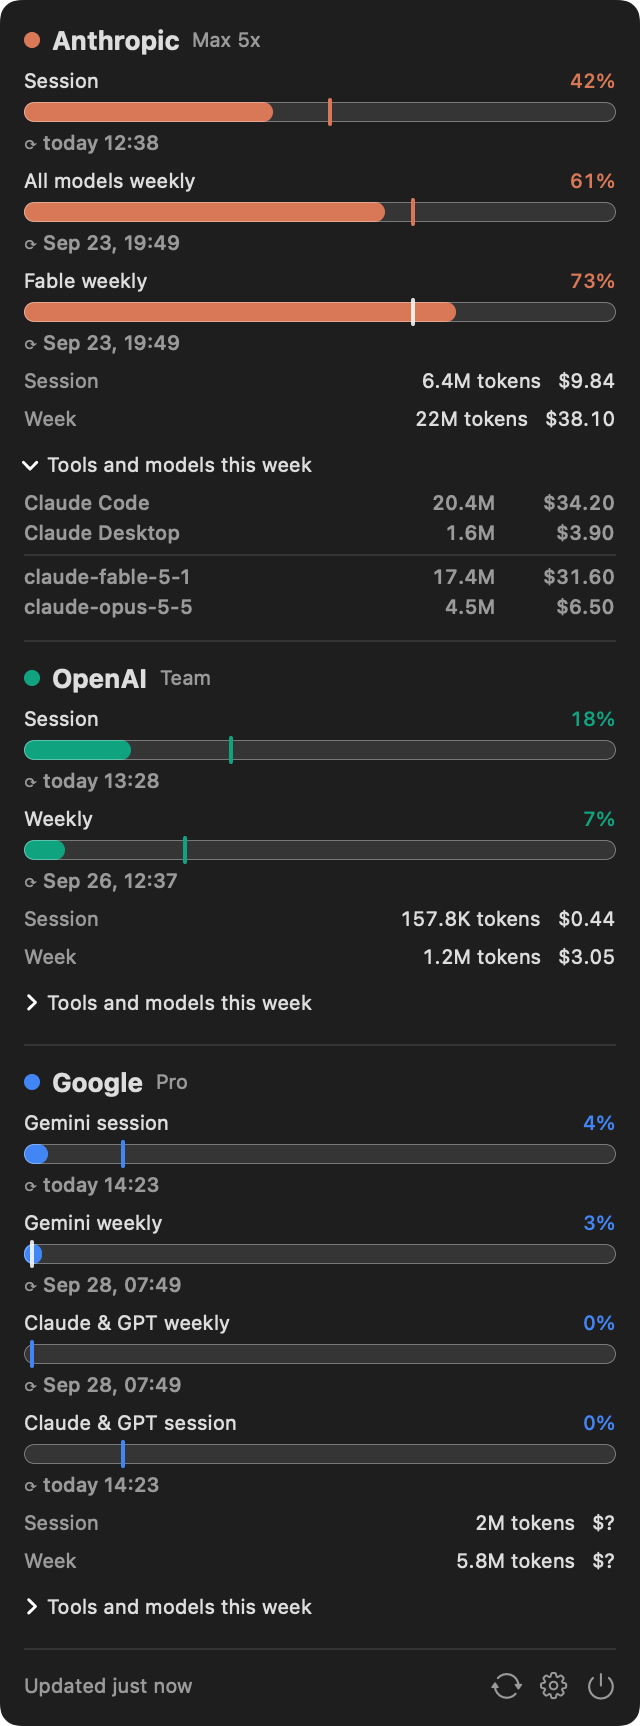
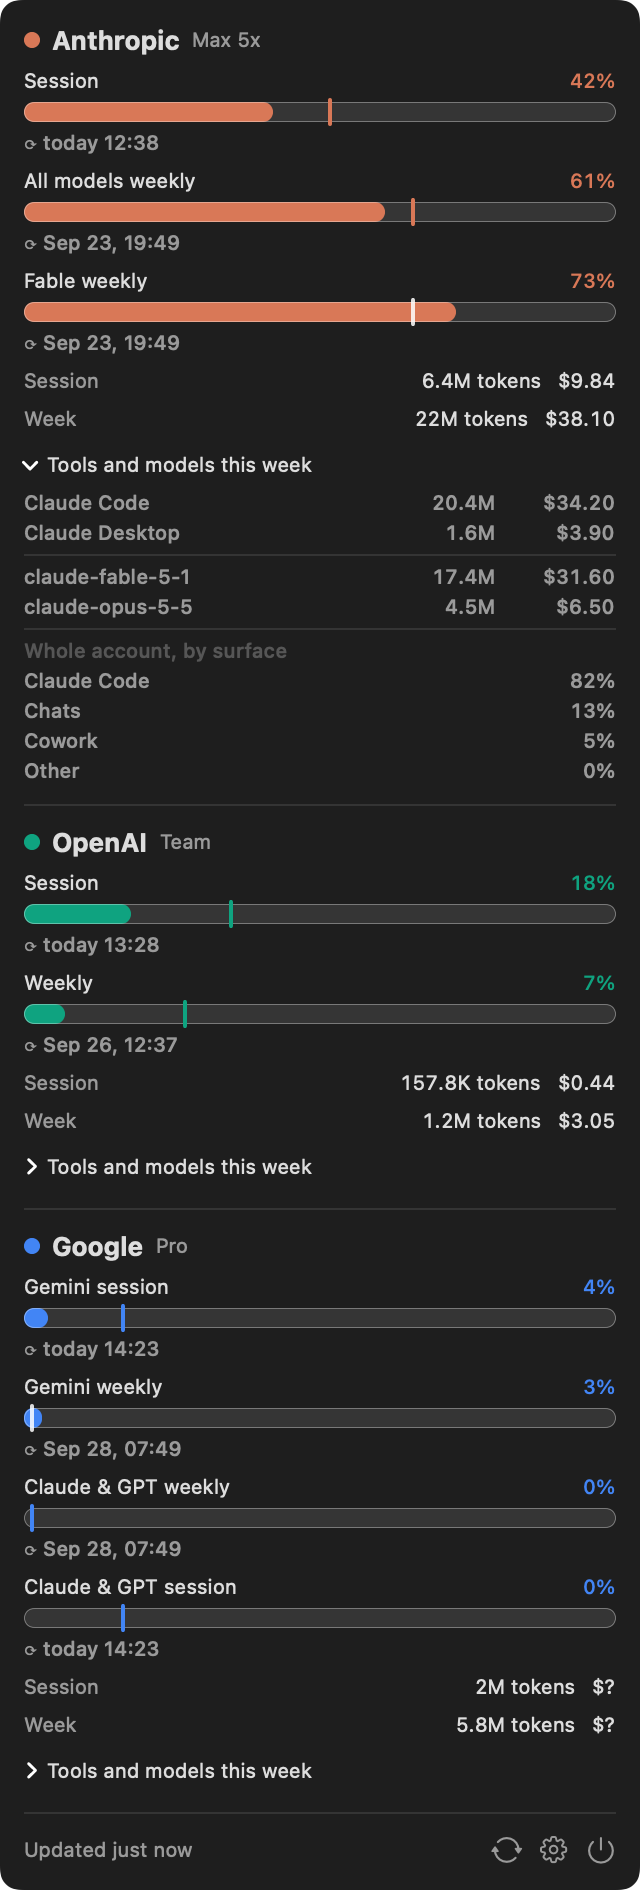
Show Claude's weekly usage by surface for the whole account
The tool and model rows are summed from this Mac's logs, so they miss other
devices and claude.ai chat. usage-reporter 0.3.0 writes Anthropic's own split
of the weekly window by surface (Claude Code, Chats, Cowork, Other) as
weeklyBreakdown. ClaudeUsageFile reads it, the engine carries it as
ProviderSnapshot.surfaces, and the menu lists it in the disclosure under the
local rows. Unknown surfaces are kept.

What the percent measures is unconfirmed: it fits a share of the week's usage
summing to 100, but only one non-zero row has been observed. The heading is
neutral and the reading is in the tooltip.

Assisted-by: Claude <noreply@anthropic.com>

diff --git a/TokenometerCore/Sources/TokenometerCore/Aggregation/Snapshot.swift b/TokenometerCore/Sources/TokenometerCore/Aggregation/Snapshot.swift
@@ -11,6 +11,21 @@ public struct StaleInfo: Codable, Sendable, Equatable {
     }
 }
 
+/// One surface's part of the provider's weekly usage, account-wide, as the provider reports it
+/// (for Claude: Claude Code, Chats, Cowork, Other). Unlike the tool and model rows, which are
+/// summed from this Mac's logs, it covers every device and claude.ai chat too.
+public struct SurfaceShare: Codable, Sendable, Equatable {
+    public var key: String
+    public var label: String
+    public var percent: Double
+
+    public init(key: String, label: String, percent: Double) {
+        self.key = key
+        self.label = label
+        self.percent = percent
+    }
+}
+
 /// Everything the menu bar, menu, and widget show for one provider.
 public struct ProviderSnapshot: Codable, Sendable, Equatable, Identifiable {
     public var provider: Provider
@@ -25,10 +40,12 @@ public struct ProviderSnapshot: Codable, Sendable, Equatable, Identifiable {
     public var models: [ModelSpend]
     public var windowsStale: StaleInfo?
     public var spendStale: StaleInfo?
+    /// Optional so a snapshot written before this field existed still decodes.
+    public var surfaces: [SurfaceShare]?
 
     public var id: Provider { provider }
 
-    public init(provider: Provider, accountKind: AccountKind, planName: String? = nil, session: UsageWindow? = nil, weekly: UsageWindow? = nil, scoped: [UsageWindow] = [], sessionSpend: Spend = .zero, weeklySpend: Spend = .zero, tools: [ToolSpend] = [], models: [ModelSpend] = [], windowsStale: StaleInfo? = nil, spendStale: StaleInfo? = nil) {
+    public init(provider: Provider, accountKind: AccountKind, planName: String? = nil, session: UsageWindow? = nil, weekly: UsageWindow? = nil, scoped: [UsageWindow] = [], sessionSpend: Spend = .zero, weeklySpend: Spend = .zero, tools: [ToolSpend] = [], models: [ModelSpend] = [], windowsStale: StaleInfo? = nil, spendStale: StaleInfo? = nil, surfaces: [SurfaceShare]? = nil) {
         self.provider = provider
         self.accountKind = accountKind
         self.planName = planName
@@ -41,6 +58,7 @@ public struct ProviderSnapshot: Codable, Sendable, Equatable, Identifiable {
         self.models = models
         self.windowsStale = windowsStale
         self.spendStale = spendStale
+        self.surfaces = surfaces
     }
 }
 

diff --git a/TokenometerCore/Sources/TokenometerUI/ProviderSectionView.swift b/TokenometerCore/Sources/TokenometerUI/ProviderSectionView.swift
@@ -64,6 +64,21 @@ public struct ProviderSectionView: View {
                                 DetailRow(name: model.model, spend: model.weekly)
                             }
                         }
+                        if let surfaces = snapshot.surfaces, !surfaces.isEmpty {
+                            // The rows above are this Mac's logs. These are the provider's own figures
+                            // for the whole account, so chat and other devices are in them.
+                            Divider().padding(.vertical, 2)
+                            Text("Whole account, by surface").font(.caption2).foregroundStyle(.tertiary)
+                                .help("As the provider reports it for this week: each surface's share of the week's usage, on every device.")
+                            ForEach(surfaces, id: \.key) { surface in
+                                HStack {
+                                    Text(surface.label).font(.caption2).lineLimit(1)
+                                    Spacer()
+                                    Text(Format.percent(surface.percent)).font(.caption2.monospacedDigit())
+                                }
+                                .foregroundStyle(.secondary)
+                            }
+                        }
                     }
                     .padding(.top, 2)
                 } label: {
@@ -224,6 +239,12 @@ public enum SampleData {
             models: [
                 ModelSpend(model: "claude-fable-5-1", weekly: spend(300_000, 150_000, 17_000_000, cost: 31.60, calls: 210)),
                 ModelSpend(model: "claude-opus-5-5", weekly: spend(110_000, 40_000, 4_400_000, cost: 6.50, calls: 102)),
+            ],
+            surfaces: [
+                SurfaceShare(key: "claude_code", label: "Claude Code", percent: 82),
+                SurfaceShare(key: "chat", label: "Chats", percent: 13),
+                SurfaceShare(key: "cowork", label: "Cowork", percent: 5),
+                SurfaceShare(key: "other", label: "Other", percent: 0),
             ]
         )
         let openAI = ProviderSnapshot(

diff --git a/TokenometerCore/Sources/TokenometerCore/Engine/UsageEngine.swift b/TokenometerCore/Sources/TokenometerCore/Engine/UsageEngine.swift
@@ -75,6 +75,7 @@ public enum UsageEngine {
             var session: UsageWindow?
             var weekly: UsageWindow?
             var scoped: [UsageWindow] = []
+            var surfaces: [SurfaceShare]?
             var windowsStale: StaleInfo?
             if provider == .openAI, let limits = inputs.codexRateLimits {
                 session = limits.session
@@ -86,6 +87,7 @@ public enum UsageEngine {
                     session = fetched.session
                     weekly = fetched.weekly
                     scoped = fetched.scoped
+                    surfaces = fetched.surfaces.isEmpty ? nil : fetched.surfaces
                     if let plan = fetched.planName { account.planName = plan }
                     // A source that reports from a file can fall behind the logs: say so rather than
                     // show an old number as current.
@@ -97,11 +99,13 @@ public enum UsageEngine {
                     session = old?.session
                     weekly = old?.weekly
                     scoped = old?.scoped ?? []
+                    surfaces = old?.surfaces
                     windowsStale = StaleInfo(since: old?.windowsStale?.since ?? inputs.now, reason: describe(error))
                 case nil:
                     session = old?.session
                     weekly = old?.weekly
                     scoped = old?.scoped ?? []
+                    surfaces = old?.surfaces
                     windowsStale = old?.windowsStale
                 }
             }
@@ -110,6 +114,7 @@ public enum UsageEngine {
                 session = nil
                 weekly = nil
                 scoped = []
+                surfaces = nil
             }
 
             // A window whose reset time has passed rolled over; the provider will report the new one
@@ -147,7 +152,8 @@ public enum UsageEngine {
                 tools: usage.tools,
                 models: usage.models,
                 windowsStale: windowsStale,
-                spendStale: spendStale
+                spendStale: spendStale,
+                surfaces: surfaces
             ))
         }
 

diff --git a/TokenometerCore/Tests/TokenometerCoreTests/UsageClientTests.swift b/TokenometerCore/Tests/TokenometerCoreTests/UsageClientTests.swift
@@ -33,6 +33,18 @@ private struct StubTransport: HTTPTransport {
         #expect(windows.fetchedAt == Date(timeIntervalSince1970: 1_791_003_600))
     }
 
+    @Test func readsTheWeeklyBreakdownBySurface() async throws {
+        let json = #"{"version":1,"at":"2026-10-04T15:45:30.428Z","windows":[{"kind":"weekly","percent":43}],"credits":{"enabled":false,"used":0},"weeklyBreakdown":{"windowStartedAt":"2026-09-27T23:00:00.751Z","rows":[{"key":"claude_code","label":"Claude Code","percent":100},{"key":"chat","label":"Chats","percent":0},{"key":"voice","percent":3},{"label":"No key","percent":9}],"at":"2026-10-04T15:45:04.521Z"}}"#
+        let windows = try await report(json).fetchWindows()
+        #expect(windows.weekly?.usedPercent == 43)
+        // An unknown surface is kept and falls back to its key for a label; a row with no key is dropped.
+        #expect(windows.surfaces == [SurfaceShare(key: "claude_code", label: "Claude Code", percent: 100),
+                                     SurfaceShare(key: "chat", label: "Chats", percent: 0),
+                                     SurfaceShare(key: "voice", label: "voice", percent: 3)])
+        let without = try await report(#"{"version":1,"at":"2026-10-04T15:45:30.428Z","windows":[]}"#).fetchWindows()
+        #expect(without.surfaces.isEmpty)
+    }
+
     @Test func newerFormatSaysSoInsteadOfGuessing() async throws {
         let client = try report(#"{"version":2,"at":"2026-10-03T05:00:00.000Z","windows":[]}"#)
         await #expect(throws: UsageClientError.noReport("usage-reporter wrote format 2; this Tokenometer reads format 1")) { try await client.fetchWindows() }

diff --git a/TokenometerCore/Sources/TokenometerCore/Network/ClaudeUsageFile.swift b/TokenometerCore/Sources/TokenometerCore/Network/ClaudeUsageFile.swift
@@ -4,8 +4,10 @@ import Foundation
 /// Claude Code makes the usage call itself with its own login; Tokenometer reads no credential and
 /// contacts no Anthropic host.
 ///
-/// Format version 1: `{version: 1, at, windows: [{kind: session | weekly, label?, percent, resetsAt?, at}], raw?}`.
-/// A weekly window with a `label` is scoped to that model family. Knowledge of Anthropic's response
+/// Format version 1: `{version: 1, at, windows: [{kind: session | weekly, label?, percent, resetsAt?, at}],
+/// weeklyBreakdown?: {rows: [{key, label?, percent}]}, raw?}`. A weekly window with a `label` is scoped to
+/// that model family; `weeklyBreakdown` is the weekly usage split by surface, account-wide. Other fields
+/// the mod writes (`credits`, `cloudSessionCredits`) are not read. Knowledge of Anthropic's response
 /// shape lives in the mod, not here.
 public struct ClaudeUsageFile: UsageWindowSource {
     public let provider: Provider = .anthropic
@@ -48,6 +50,11 @@ public struct ClaudeUsageFile: UsageWindowSource {
             default:
                 continue
             }
+        }
+        // Every row is kept, unknown surfaces included: Anthropic can add one without a new release here.
+        for row in root.dict("weeklyBreakdown")?["rows"] as? [[String: Any]] ?? [] {
+            guard let key = row.string("key"), let percent = (row["percent"] as? NSNumber)?.doubleValue else { continue }
+            windows.surfaces.append(SurfaceShare(key: key, label: row.string("label") ?? key, percent: percent))
         }
         return windows
     }

diff --git a/TokenometerCore/Tests/TokenometerCoreTests/EngineTests.swift b/TokenometerCore/Tests/TokenometerCoreTests/EngineTests.swift
@@ -48,7 +48,8 @@ import Testing
 
     @Test func failedWindowFetchKeepsPreviousValueAsStale() {
         struct Boom: Error {}
-        let fetched = ProviderWindows(session: UsageWindow(kind: .session, usedPercent: 50), weekly: UsageWindow(kind: .weekly, usedPercent: 20), planName: "max", fetchedAt: now)
+        var fetched = ProviderWindows(session: UsageWindow(kind: .session, usedPercent: 50), weekly: UsageWindow(kind: .weekly, usedPercent: 20), planName: "max", fetchedAt: now)
+        fetched.surfaces = [SurfaceShare(key: "chat", label: "Chats", percent: 12)]
         let first = UsageEngine.snapshot(
             from: RefreshInputs(records: [], presentTools: [.claudeCode], windows: [.anthropic: .success(fetched)], accounts: [.anthropic: AccountInfo(kind: .plan)], now: now),
             settings: EngineSettings(), previous: nil)
@@ -61,6 +62,7 @@ import Testing
             settings: EngineSettings(), previous: first)
         let anthropic = second.provider(.anthropic)!
         #expect(anthropic.session?.usedPercent == 50)
+        #expect(anthropic.surfaces == fetched.surfaces)
         #expect(anthropic.windowsStale?.since == later)
         #expect(anthropic.windowsStale?.reason.contains("Boom") == true)
     }

diff --git a/TokenometerCore/Sources/tokenometerctl/main.swift b/TokenometerCore/Sources/tokenometerctl/main.swift
@@ -52,6 +52,7 @@ if json {
         print("  spend session \(p.sessionSpend.tokens.total) tok $\(String(format: "%.2f", p.sessionSpend.costUSD)) | week \(p.weeklySpend.tokens.total) tok $\(String(format: "%.2f", p.weeklySpend.costUSD))\(p.weeklySpend.hasUnknownCost ? " (+unpriced)" : "")")
         for t in p.tools { print("  \(t.tool.displayName): week \(t.weekly.tokens.total) tok, \(t.weekly.calls) calls") }
         for m in p.models.prefix(6) { print("    \(m.model): \(m.weekly.tokens.total) tok") }
+        if let surfaces = p.surfaces { print("  by surface, whole account: " + surfaces.map { "\($0.label) \(Int($0.percent.rounded()))%" }.joined(separator: ", ")) }
         if let s = p.windowsStale { print("  windows stale: \(s.reason)") }
         if let s = p.spendStale { print("  spend stale: \(s.reason)") }
     }

diff --git a/TokenometerCore/Sources/TokenometerCore/Engine/UsageWindowSource.swift b/TokenometerCore/Sources/TokenometerCore/Engine/UsageWindowSource.swift
@@ -8,6 +8,8 @@ public struct ProviderWindows: Sendable, Equatable {
     public var scoped: [UsageWindow]
     public var planName: String?
     public var fetchedAt: Date
+    /// The weekly window split by surface, when the provider reports one.
+    public var surfaces: [SurfaceShare] = []
 
     public init(session: UsageWindow? = nil, weekly: UsageWindow? = nil, scoped: [UsageWindow] = [], planName: String? = nil, fetchedAt: Date) {
         self.session = session

diff --git a/CLAUDE.md b/CLAUDE.md
@@ -51,7 +51,7 @@ Toolchain: Xcode 27, Swift 6.4, xcodegen 2.46, pwsh. Signing is manual with the 
 Anthropic:
 - Claude Code: `~/.claude/projects/**/*.jsonl`, including `subagents/` dirs (the script skips them; the app must not). Only `assistant` entries carry `message.usage` and `message.model`. Dedupe by `message.id`, keep the last entry. `cost-state` entries carry per-session `totalCostUSD` and `modelUsage`.
 - Claude Desktop (Cowork and Code): `~/Library/Application Support/Claude/local-agent-mode-sessions/**/.claude/projects/**/*.jsonl`, same format. Sibling `audit.jsonl` is SDK stream-json with `rate_limit_event` (window type, status, reset time, no percent).
-- Usage percent (ADR-0004): from `~/.claude/usage-reporter/usage.json`, written by the `usage-reporter` Claude Code mod, which lives in its own repo (`~/REPOS/usage-reporter`, GitHub `tksunw/usage-reporter`) and is installed per Mac by cloning it into `~/.claude/skills/usage-reporter`. Format 1: `{version: 1, at, windows: [{kind: session | weekly, label?, percent, resetsAt?, at}], raw?}`; a weekly window with a `label` is model-scoped ("Fable"). The mod has Claude Code call `https://api.anthropic.com/api/oauth/usage` through `$.session.authorize()` and `$.http.fetch(url, { auth })` (the credential never reaches the mod), at most once per 5 min across sessions, 10 min after a 429, and between calls merges the status line's session and weekly percent into the last report. All knowledge of Anthropic's response shape is in the mod. `ClaudeUsageFile` reads the file on every refresh (`readsLocalFile`) and rejects an unknown `version`. Plan vs metered: `oauthAccount` in `~/.claude.json` means plan (`organizationType`, `organizationRateLimitTier` give "Max 5x"); `organizationType` containing `enterprise` means metered. Never read the `Claude Code-credentials` keychain item.
+- Usage percent (ADR-0004): from `~/.claude/usage-reporter/usage.json`, written by the `usage-reporter` Claude Code mod, which lives in its own repo (`~/REPOS/usage-reporter`, GitHub `tksunw/usage-reporter`) and is installed per Mac by cloning it into `~/.claude/skills/usage-reporter`. Format 1: `{version: 1, at, windows: [{kind: session | weekly, label?, percent, resetsAt?, at}], weeklyBreakdown?: {rows: [{key, label?, percent}]}, credits?, cloudSessionCredits?, raw?}`; a weekly window with a `label` is model-scoped ("Fable"). `weeklyBreakdown` (usage-reporter 0.3.0) is the weekly usage by surface for the whole account; it becomes `ProviderSnapshot.surfaces` and is drawn in the menu's disclosure under the local tool and model rows. Its `percent` appears to be a share of the week's usage summing to 100, but only one non-zero row has ever been observed, so that is unconfirmed. `credits` and `cloudSessionCredits` are not read. The mod has Claude Code call `https://api.anthropic.com/api/oauth/usage` through `$.session.authorize()` and `$.http.fetch(url, { auth })` (the credential never reaches the mod), at most once per 5 min across sessions, 10 min after a 429, and between calls merges the status line's session and weekly percent into the last report. All knowledge of Anthropic's response shape is in the mod. `ClaudeUsageFile` reads the file on every refresh (`readsLocalFile`) and rejects an unknown `version`. Plan vs metered: `oauthAccount` in `~/.claude.json` means plan (`organizationType`, `organizationRateLimitTier` give "Max 5x"); `organizationType` containing `enterprise` means metered. Never read the `Claude Code-credentials` keychain item.
 
 OpenAI:
 - Codex: `~/.codex/sessions/**/*.jsonl`. `event_msg` / `token_count` events carry cumulative `total_token_usage` (take the last per file; `input_tokens` includes `cached_input_tokens`) and `rate_limits.primary` / `.secondary` with `used_percent`, `window_minutes`, `resets_at`, plus `plan_type`. Newest event across files is current. The only provider whose percent is on disk.

diff --git a/README.md b/README.md
@@ -16,7 +16,7 @@ For each provider:
 - **Scoped** bars where the provider has them: Claude's per-model weekly cap ("Fable weekly"), Antigravity's second model group ("Claude and GPT").
 - A **pace tick** on every bar marking how far through the window the clock is. The fill stays in the provider's color while usage is at or behind the tick. Ahead of it, amber from 75% and red from 90%.
 - **Spend**: tokens and dollars for the session and the week. On a subscription the dollar figure is what the same tokens would have cost at API rates, labeled as such; the subscription is the real bill.
-- **Tools and models** this week, under a disclosure.
+- **Tools and models** this week, under a disclosure. Those rows are summed from this Mac's logs. For Claude the disclosure also shows the week split by surface (Claude Code, Chats, Cowork, Other) for the whole account, as Anthropic reports it, which covers your other devices and claude.ai chat too.
 
 Providers appear only when their logs exist on the Mac. If a source cannot be refreshed, the bar keeps its last value, dims, and shows why on hover.
 
